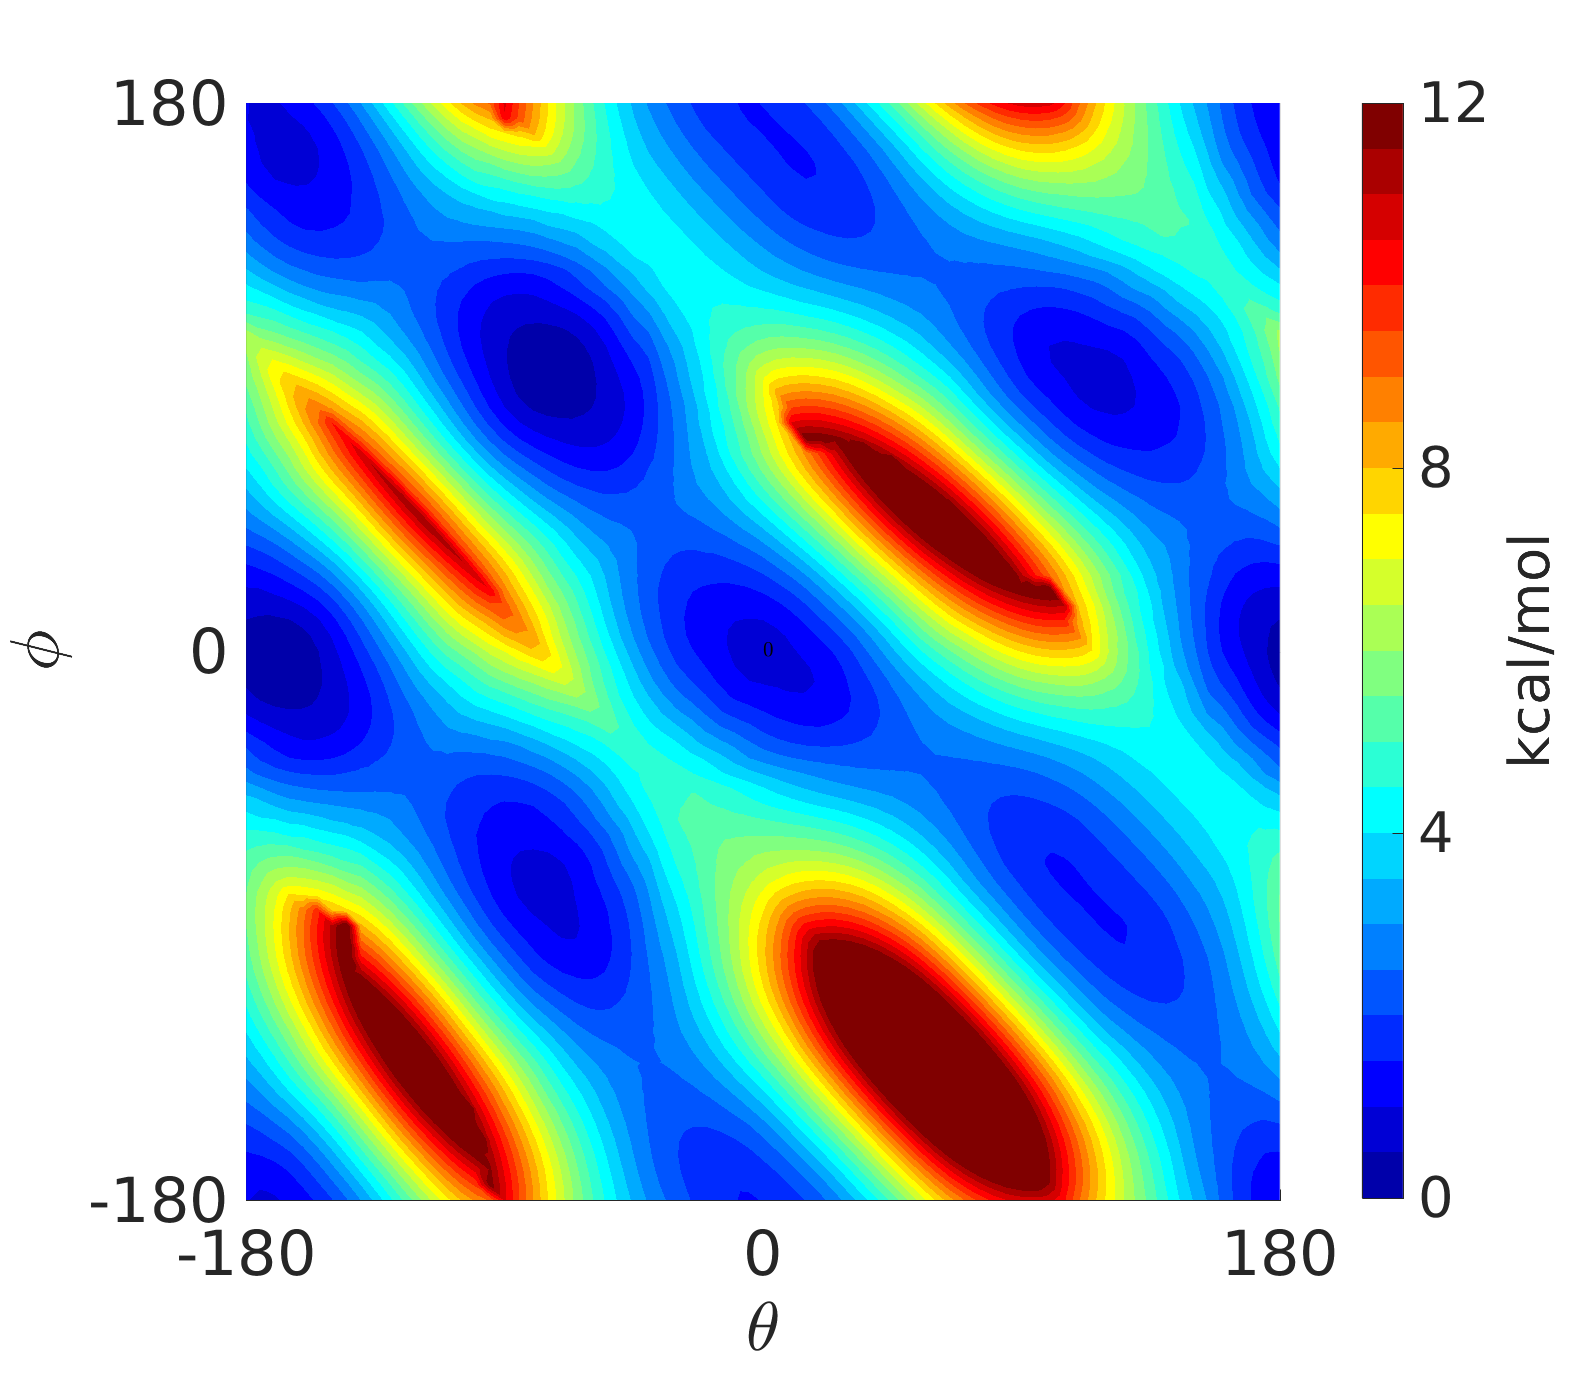
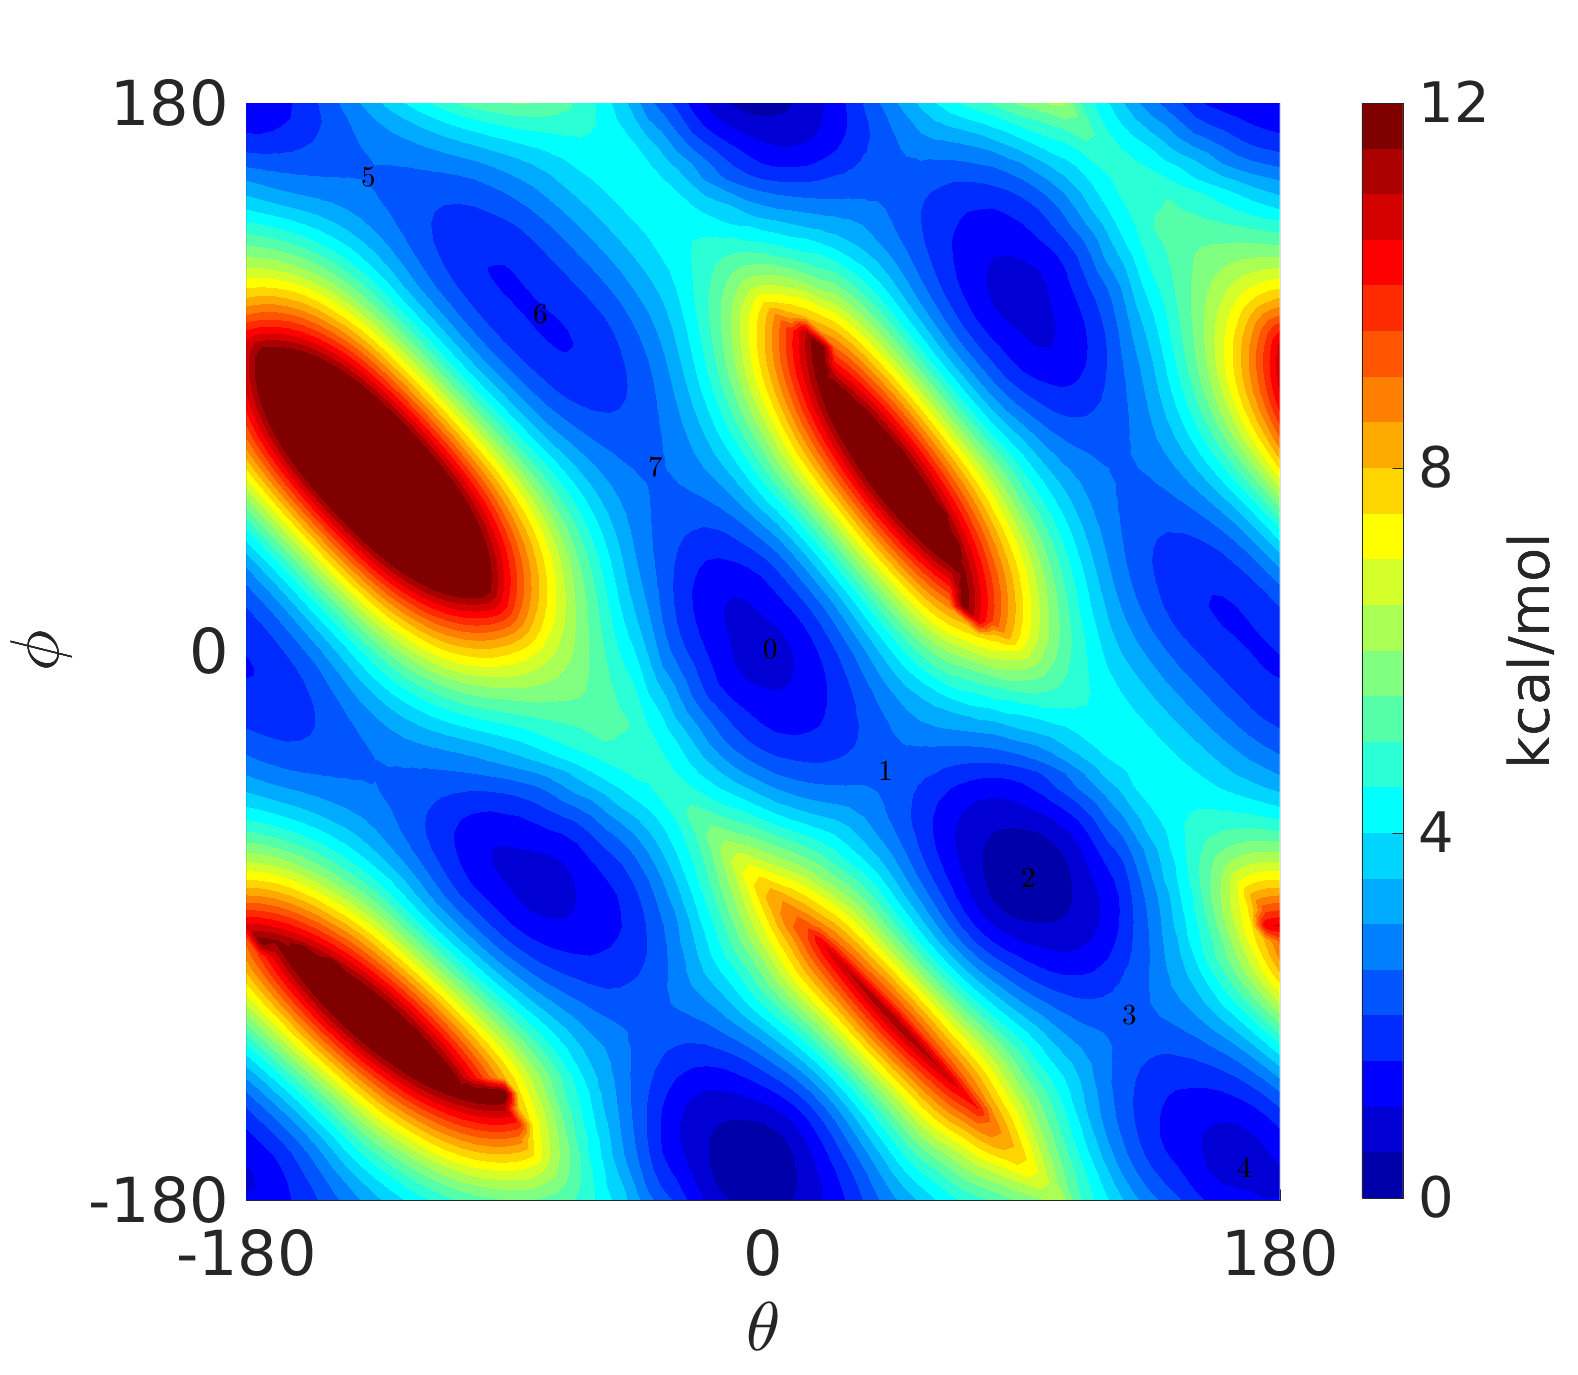
save

diff --git a/plot/plotPES.m b/plot/plotPES.m
@@ -1,36 +1,31 @@
 close all;
+clear;
 
 n = 72;
 
-% system = '1001';
+system = '1001';
 method = '_B3LYP';
 showpath = true;
 
 labels = [];
-shift = [];
 
 if (strcmp(method, '_B3LYP'))
     A = dlmread(strcat('../qchem_scan_', system, method, '_d3_op_6-311++G**/energies'));
     if (showpath==true)
         switch system
-            case '1001'
-                labels = [[124.4, -22.8];];% [ 21.6, -122.7]; [ -37.6, -85.7]; [-132.8, -127.2]; [ -99.3,  12.1]; [-127.3,  55.9];];
-                labels = pdd(labels - [124.4, -22.8], -180, 180);
-            case '1101'
-                labels = [[126.0, -21.3];];                
-                labels = pdd(labels - [126.0, -21.3], -180, 180);
-            case '1111'
-                labels = [[122.8, -38.4];];
-                labels = pdd(labels - [122.8, -38.4], -180, 180);
-            case '10n01'
-                labels=[[ 129.8, -25.0];];
-                labels = pdd(labels - [ 129.8, -25.0], -180, 180);
-            case '11n01'
-                labels=[[106.2, -7.2];];
-                labels = pdd(labels - [106.2, -7.2], -180, 180);
-            case '11n11'
-                labels=[[ 135.7, -58.7];];
-                labels = pdd(labels - [ 135.7, -58.7], -180, 180);
+            case '1001'  %[ 24.4, -22.8]
+                labels = [[0,0]; [ 35, -80]; [100, -105]; [145, -150]; [175, 155]; [-145, 125]; [-100,   90]; [-45, 60]; [-30, -75]; [-30,110]; [140,115];];
+            case '1101'  %[126.0, -21.3]
+                labels = [[   0,   0]; [ -30,  30]; [ -90,  90]; [ -35, 125]; [   0, 165]; [-25, -150]; [ -90, -105]; [-35,-65]; [ 40, -60]; [95,-105]; [150,-30]; ...
+                          [  95,  80]; [ 135, 125]; [ 160, 155]; [-155, 155]; [-155, -40]];
+            case '1111'  %[122.8, -38.4]
+                labels = [[   0,   0]; [  55, -40]; [  95, -90]; [ 125,-155]; [ 165, 175]; [-140, 170]; [ -85,120]; [ -60, 50]; [-40, 140]; [-40,-50]; [130,140]];
+            case '10n01' %[129.8, -25.0]
+                labels = [[   0,   0]; [  40, -60]; [ 90, -120]; [140, -165]; [-160, 155]; [ -90, 65];];
+            case '11n01' %[106.2, -7.2]
+                labels = [[   0,   0]; [  70,  -90]; [130, -145]; [-105,105]];
+            case '11n11' %[ 135.7, -58.7];
+                labels = [[   0,   0]; [ 40, -40]; [90,-75]; [125, -120]; [165,-170]; [-140, 155]; [-80, 110]; [ -40, 60]];
         end
     end
 elseif (strcmp(method, '_RIMP2'))
@@ -62,7 +57,7 @@ P = (P-min(min(P)))*627.509;
 
 [Xe,Ye,Ve] = meshBoard(X,Y,P);
 
-[Ye,Xe] = deal(Xe,Ye); % swap
+% [Ye,Xe] = deal(Xe,Ye); % swap
 
 figure;
 surf(Xe,Ye,Ve);
@@ -83,7 +78,7 @@ colormap jet(24);
 hold on;
 
 for i=1:size(labels,1)
-    text(labels(i,1),labels(i,2),10,num2str(i-1),'Interpreter','LaTex');
+    text(labels(i,1),labels(i,2),10,num2str(i-1),'Interpreter','LaTex','FontSize',14,'Color','black');
 end
 
 print(strcat('./', system, method), '-dpng')

diff --git a/mode/transport.m b/mode/transport.m
@@ -1,15 +1,13 @@
 addpath('../plot')
 
-n = 36;
+n = 72;
 
 % system = '1101';
 method = '_B3LYP';
 labels = [];
 
 if (strcmp(method, '_B3LYP'))
-    A = dlmread(strcat('../qchem_scan_', system, method, '_d3_6-31G*/energies'));
-elseif (strcmp(method, '_RIMP2'))
-    A = dlmread(strcat('../qchem_sp_', system, method, '_None_aug-cc-pVDZ/energies'));  
+    A = dlmread(strcat('../qchem_scan_', system, method, '_d3_op_6-311++G**/energies'));
 end
     
 X = reshape(A(:,1), [n,n])';
@@ -19,3 +17,20 @@ P = reshape(A(:,3), [n,n])';
 P = (P-min(min(P)));
 
 B=floyd_warshall(P);
+
+%{
+[Xe,Ye,Ve] = meshBoard(X,Y,reshape(B(72*36+36,:),[n,n]));
+surf(Xe,Ye,Ve*627.509);
+view(0,90);
+set_range
+xlabel('$\mathbf{\theta}$','Interpreter','LaTex')
+ylabel('$\mathbf{\phi}$','Interpreter','LaTex')
+set(gca,'FontSize',30)
+set(gcf, 'Position', [0, 0, 1000, 850]);
+h = colorbar;
+ylabel(h,'kcal/mol')
+set(h,'YTick',[0,4,8,12]);
+caxis([0 12]);
+shading interp;
+colormap jet(24);
+%}

diff --git a/mode/calculate_transport.m b/mode/calculate_transport.m
@@ -16,7 +16,7 @@ end
 %{
 [Xe,Ye,Ve] = meshBoard(X,Y,reshape(Bs(1,:,2),[n,n]));
 surf(Xe/(2*pi)*360,Ye/(2*pi)*360,Ve*627.509);
-view(90,90);
+view(0,90);
 shading interp;
 colormap jet;
 set(gca,'xlim',[0 360]);
@@ -31,7 +31,6 @@ h = colorbar;
 ylabel(h,'kcal/mol')
 set(h,'YTick',[0,4,8,12]);
 caxis([0 12]);
-print('1101_1', '-dpng')
 %}
 
 close all;
